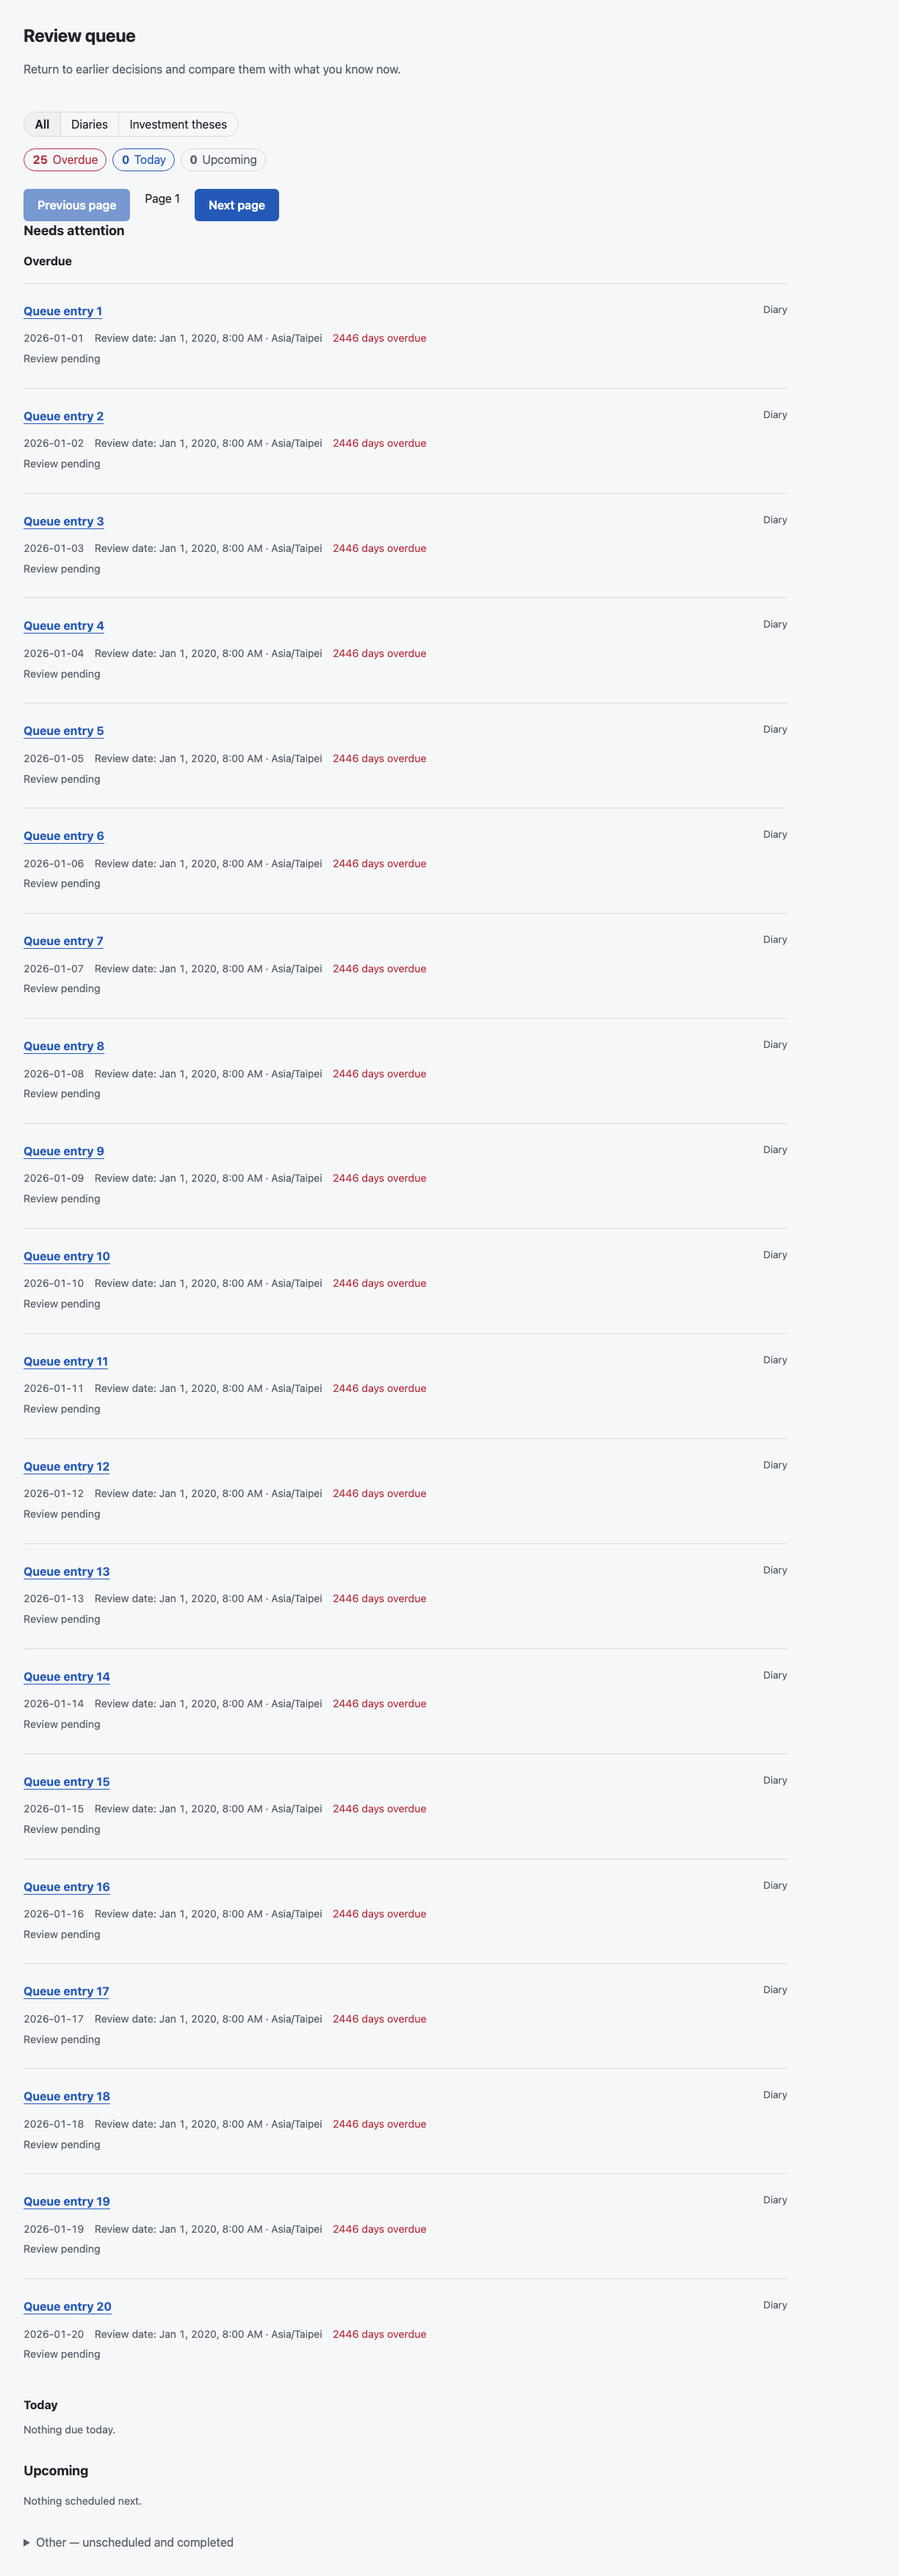
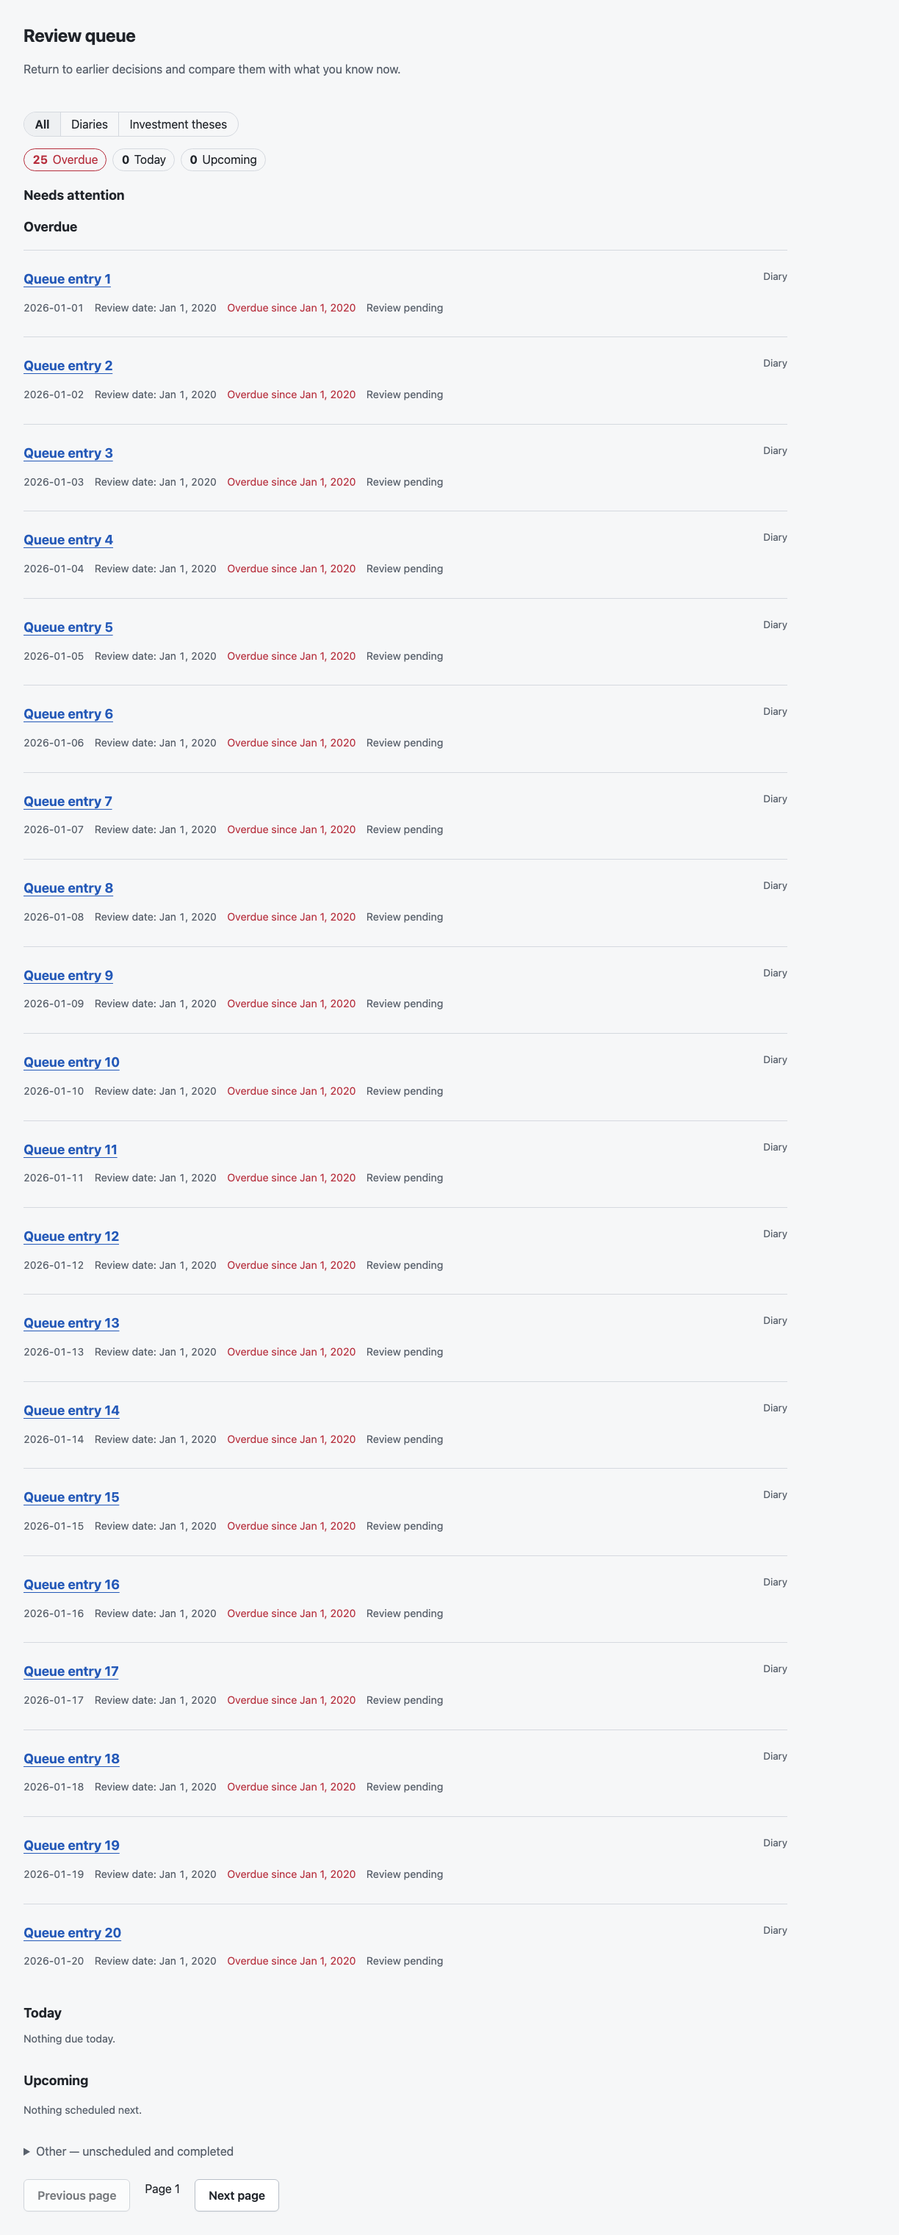
fix(reviews): remediate UI/UX audit findings
- Empty queue renders the welcome block alone; no zero chips, disabled
  paging or empty bucket headings around it
- Overdue priority chip only reads as danger when the count is non-zero
- Pagination moves below the content, secondary styled, with its own
  aria-label instead of the page title
- Bucket headings render at one size so urgency, not heading level,
  sets the tone; past 60 days the due line shows the date instead of a
  meaningless day count
- Review date drops time-of-day and the raw timezone id, and disappears
  once an item is reviewed
- Mobile: scroll-padding-top keeps anchor jumps and focus scrolling
  clear of the sticky top bar
- Thesis rows without a symbol no longer link to /stocks//thesis

diff --git a/apps/web/app/routes/reviews.tsx b/apps/web/app/routes/reviews.tsx
@@ -21,15 +21,18 @@ export function accountDayDiff(instant: string, now: Date, timezone: string): nu
   };
   return (day(new Date(instant)) - day(now)) / 86400000;
 }
-const copy = {
-  en: { title: 'Review queue', hint: 'Return to earlier decisions and compare them with what you know now.', overdue: 'Overdue', today: 'Today', upcoming: 'Upcoming', unscheduled: 'Unscheduled', completed: 'Completed', diary: 'Diary', thesis: 'Investment thesis', diaries: 'Diaries', theses: 'Investment theses', all: 'All', filter: 'Filter by type', empty: 'No items on this page.', emptyOverdue: 'Nothing overdue.', emptyToday: 'Nothing due today.', emptyUpcoming: 'Nothing scheduled next.', emptyAll: 'Nothing waiting for review right now.', library: 'Diary library', previous: 'Previous page', next: 'Next page', page: 'Page', date: 'Review date', more: 'Other — unscheduled and completed', stateNone: 'No review due', statePending: 'Review pending', stateReviewed: 'Reviewed', dueToday: 'Due today', overdueOne: '1 day overdue', overdueDays: '{n} days overdue', dueInOne: 'Due in 1 day', dueInDays: 'Due in {n} days', reviewDiary: 'Review diary', reviewThesis: 'Review thesis' },
-  'zh-TW': { title: '複盤隊列', hint: '回看過往決策，對照目前掌握的資料。', overdue: '逾期', today: '今天', upcoming: '即將到期', unscheduled: '未排程', completed: '已完成', diary: '日記', thesis: '投資論點', diaries: '日記', theses: '投資論點', all: '全部', filter: '依類型篩選', empty: '這頁沒有項目。', emptyOverdue: '沒有逾期項目。', emptyToday: '今天沒有到期複盤。', emptyUpcoming: '接下來沒有排定複盤。', emptyAll: '目前沒有待複盤的項目。', library: '日記庫', previous: '上一頁', next: '下一頁', page: '頁', date: '複盤日期', more: '其他 — 未排程與已完成', stateNone: '未安排複盤', statePending: '待複盤', stateReviewed: '已複盤', dueToday: '今天到期', overdueOne: '逾期 1 天', overdueDays: '逾期 {n} 天', dueInOne: '1 天後到期', dueInDays: '{n} 天後到期', reviewDiary: '複盤日記', reviewThesis: '複盤論點' },
-  'zh-CN': { title: '复盘队列', hint: '回看过往决策，对照目前掌握的资料。', overdue: '逾期', today: '今天', upcoming: '即将到期', unscheduled: '未排程', completed: '已完成', diary: '日记', thesis: '投资论点', diaries: '日记', theses: '投资论点', all: '全部', filter: '按类型筛选', empty: '这页没有项目。', emptyOverdue: '没有逾期项目。', emptyToday: '今天没有到期复盘。', emptyUpcoming: '接下来没有排定复盘。', emptyAll: '目前没有待复盘的项目。', library: '日记库', previous: '上一页', next: '下一页', page: '页', date: '复盘日期', more: '其他 — 未排程与已完成', stateNone: '未安排复盘', statePending: '待复盘', stateReviewed: '已复盘', dueToday: '今天到期', overdueOne: '逾期 1 天', overdueDays: '逾期 {n} 天', dueInOne: '1 天后到期', dueInDays: '{n} 天后到期', reviewDiary: '复盘日记', reviewThesis: '复盘论点' },
+export const copy = {
+  en: { title: 'Review queue', hint: 'Return to earlier decisions and compare them with what you know now.', overdue: 'Overdue', today: 'Today', upcoming: 'Upcoming', unscheduled: 'Unscheduled', completed: 'Completed', diary: 'Diary', thesis: 'Investment thesis', diaries: 'Diaries', theses: 'Investment theses', all: 'All', filter: 'Filter by type', empty: 'No items on this page.', emptyOverdue: 'Nothing overdue.', emptyToday: 'Nothing due today.', emptyUpcoming: 'Nothing scheduled next.', emptyAll: 'Nothing waiting for review right now.', library: 'Diary library', previous: 'Previous page', next: 'Next page', page: 'Page', pagination: 'Pagination', date: 'Review date', more: 'Other — unscheduled and completed', stateNone: 'No review due', statePending: 'Review pending', stateReviewed: 'Reviewed', dueToday: 'Due today', overdueOne: '1 day overdue', overdueDays: '{n} days overdue', dueInOne: 'Due in 1 day', dueInDays: 'Due in {n} days', overdueSince: 'Overdue since {date}', dueOn: 'Due {date}', reviewDiary: 'Review diary', reviewThesis: 'Review thesis' },
+  'zh-TW': { title: '複盤隊列', hint: '回看過往決策，對照目前掌握的資料。', overdue: '逾期', today: '今天', upcoming: '即將到期', unscheduled: '未排程', completed: '已完成', diary: '日記', thesis: '投資論點', diaries: '日記', theses: '投資論點', all: '全部', filter: '依類型篩選', empty: '這頁沒有項目。', emptyOverdue: '沒有逾期項目。', emptyToday: '今天沒有到期複盤。', emptyUpcoming: '接下來沒有排定複盤。', emptyAll: '目前沒有待複盤的項目。', library: '日記庫', previous: '上一頁', next: '下一頁', page: '頁', pagination: '分頁', date: '複盤日期', more: '其他 — 未排程與已完成', stateNone: '未安排複盤', statePending: '待複盤', stateReviewed: '已複盤', dueToday: '今天到期', overdueOne: '逾期 1 天', overdueDays: '逾期 {n} 天', dueInOne: '1 天後到期', dueInDays: '{n} 天後到期', overdueSince: '自 {date} 起逾期', dueOn: '{date} 到期', reviewDiary: '複盤日記', reviewThesis: '複盤論點' },
+  'zh-CN': { title: '复盘队列', hint: '回看过往决策，对照目前掌握的资料。', overdue: '逾期', today: '今天', upcoming: '即将到期', unscheduled: '未排程', completed: '已完成', diary: '日记', thesis: '投资论点', diaries: '日记', theses: '投资论点', all: '全部', filter: '按类型筛选', empty: '这页没有项目。', emptyOverdue: '没有逾期项目。', emptyToday: '今天没有到期复盘。', emptyUpcoming: '接下来没有排定复盘。', emptyAll: '目前没有待复盘的项目。', library: '日记库', previous: '上一页', next: '下一页', page: '页', pagination: '分页', date: '复盘日期', more: '其他 — 未排程与已完成', stateNone: '未安排复盘', statePending: '待复盘', stateReviewed: '已复盘', dueToday: '今天到期', overdueOne: '逾期 1 天', overdueDays: '逾期 {n} 天', dueInOne: '1 天后到期', dueInDays: '{n} 天后到期', overdueSince: '自 {date} 起逾期', dueOn: '{date} 到期', reviewDiary: '复盘日记', reviewThesis: '复盘论点' },
 };
+// Past 60 days a day count is noise; the date itself communicates.
+export const dueLine = (days: number, c: (typeof copy)[keyof typeof copy], date: string) => Math.abs(days) < 60 ? (days === 0 ? c.dueToday : days < 0 ? days === -1 ? c.overdueOne : c.overdueDays.replace('{n}', String(-days)) : days === 1 ? c.dueInOne : c.dueInDays.replace('{n}', String(days))) : (days < 0 ? c.overdueSince : c.dueOn).replace('{date}', date);
 export default function Reviews() {
   const { locale, t } = useUi(), c = copy[locale], [params, setParams] = useSearchParams();
   const [data, setData] = useState<ReviewGroups | null>(null), [error, setError] = useState<Failure | null>(null), [attempt, retry] = useState(0), [timezone, setTimezone] = useState('UTC');
   const labels = thesisCopy[locale];
+  const dateFmt = new Intl.DateTimeFormat(locale, { dateStyle: 'medium', timeZone: timezone });
   const label = (value: string) => Object.hasOwn(labels, value) ? labels[value as keyof typeof labels] : value;
   const translate = useRef(t); translate.current = t;
   const query = params.toString(), parsed = reviewQueueQuerySchema.safeParse({ page: params.get('page') ?? '1', limit: 20, target: params.get('target') ?? undefined }), page = parsed.success ? parsed.data.page : 1;
@@ -52,16 +55,17 @@ export default function Reviews() {
   const turn = (next: number) => { const updated = new URLSearchParams(params); updated.set('page', String(next)); focusResults.current = true; setParams(updated); };
   const filterTo = (target: string) => { const updated = new URLSearchParams(params); if (target) updated.set('target', target); else updated.delete('target'); updated.delete('page'); return `/reviews${updated.toString() ? `?${updated}` : ''}`; };
   const stateLabel = (status: ReviewItem['reviewStatus']) => status === 'reviewed' ? c.stateReviewed : status === 'pending' ? c.statePending : c.stateNone;
-  const dueText = (days: number) => days === 0 ? c.dueToday : days < 0 ? days === -1 ? c.overdueOne : c.overdueDays.replace('{n}', String(-days)) : days === 1 ? c.dueInOne : c.dueInDays.replace('{n}', String(days));
   const dueClass = (days: number) => days < 0 ? 'queue-due-overdue' : days === 0 ? 'queue-due-today' : 'queue-due-upcoming';
   const renderItem = (item: ReviewItem) => {
     const due = item.reviewDueAt && item.reviewStatus !== 'reviewed' ? accountDayDiff(item.reviewDueAt, new Date(), timezone) : null;
+    const href = item.targetType === 'diary' ? `/diaries/${item.id}/review` : item.symbol && `/stocks/${encodeURIComponent(item.symbol)}/thesis`;
+    const title = <><span className="queue-sr">{item.targetType === 'diary' ? `${c.reviewDiary}: ` : `${c.reviewThesis}: `}</span>{item.targetType === 'thesis' ? item.symbol ? `${item.symbol} · ${c.thesis}` : c.thesis : item.title}</>;
     return <li key={item.id} data-testid="review-queue-item" className="queue-item">
-      <header className="plan-header"><h3><Link to={item.targetType === 'diary' ? `/diaries/${item.id}/review` : `/stocks/${encodeURIComponent(item.symbol ?? '')}/thesis`} state={{ queueSearch: query }}><span className="queue-sr">{item.targetType === 'diary' ? `${c.reviewDiary}: ` : `${c.reviewThesis}: `}</span>{item.targetType === 'thesis' ? `${item.symbol} · ${c.thesis}` : item.title}</Link></h3><span className="queue-badge">{c[item.targetType]}</span></header>
+      <header className="plan-header"><h3>{href ? <Link to={href} state={{ queueSearch: query }}>{title}</Link> : title}</h3><span className="queue-badge">{c[item.targetType]}</span></header>
       <p className="queue-meta">
         {item.targetType === 'diary' && <time dateTime={item.date}>{item.date}</time>}
-        {item.reviewDueAt && <span>{c.date}: <time dateTime={item.reviewDueAt}>{new Intl.DateTimeFormat(locale, { dateStyle: 'medium', timeStyle: 'short', timeZone: timezone }).format(new Date(item.reviewDueAt))} · {timezone}</time></span>}
-        {due !== null && <span className={`queue-due ${dueClass(due)}`}>{dueText(due)}</span>}
+        {item.reviewDueAt && item.reviewStatus !== 'reviewed' && <span>{c.date}: <time dateTime={item.reviewDueAt}>{dateFmt.format(new Date(item.reviewDueAt))}</time></span>}
+        {item.reviewDueAt && due !== null && <span className={`queue-due ${dueClass(due)}`}>{dueLine(due, c, dateFmt.format(new Date(item.reviewDueAt)))}</span>}
         <span>{item.reviewOutcome ? `${labels.outcome}: ${label(item.reviewOutcome)}` : stateLabel(item.reviewStatus)}</span>
         {item.targetType === 'thesis' && item.portfolioDecision && <span>{labels.portfolioDecision}: {label(item.portfolioDecision)}</span>}
       </p>
@@ -78,6 +82,7 @@ export default function Reviews() {
   };
   // Secondary buckets stay collapsed unless there is nothing urgent to review.
   const showSecondary = data !== null && priorityBuckets.every(bucket => data.counts[bucket] === 0) && data.unscheduled.length > 0;
+  // An empty queue gets the welcome block alone; buckets, counts and paging are all noise there.
   const emptyQueue = data !== null && page === 1 && buckets.every(bucket => data.counts[bucket] === 0);
-  return <section className="plan-page"><h1>{c.title}</h1><p className="lede">{c.hint}</p>{error ? <><FailureNotice failure={error}/>{error.code?.startsWith('AUTH_') && <Link to={signInPath('/reviews')}>{t('login')}</Link>}<button onClick={() => retry(value => value + 1)}>{t('retry')}</button></> : !data ? <p role="status">{t('loading')}</p> : <><nav className="queue-filter" aria-label={c.filter}>{([['', c.all], ['diary', c.diaries], ['thesis', c.theses]] as const).map(([value, name]) => <Link key={value} to={filterTo(value)} aria-current={(params.get('target') ?? '') === value ? 'true' : undefined} onClick={() => { if ((params.get('target') ?? '') !== value) focusResults.current = true; }}>{name}</Link>)}</nav><div className="queue-priorities">{priorityBuckets.map(bucket => <a key={bucket} className={`queue-priority queue-priority-${bucket}`} href={`#queue-${bucket}`} data-testid={`queue-count-${bucket}`}><strong>{data.counts[bucket]}</strong> {c[bucket]}</a>)}</div>{emptyQueue && <div className="queue-empty" data-testid="queue-empty"><p>{c.emptyAll}</p><div className="actions"><Link className="button" to="/diaries/new">{t('write')}</Link><Link className="button secondary" to="/diaries">{c.library}</Link></div></div>}<nav className="plan-pagination" aria-label={c.title}><button disabled={page <= 1} onClick={() => turn(page - 1)}>{c.previous}</button><span>{c.page} {page}</span><button disabled={!buckets.some(bucket => data.counts[bucket] > page * 20)} onClick={() => turn(page + 1)}>{c.next}</button></nav><section className="queue-attention"><h2 ref={resultsHeading} tabIndex={-1}>{t('attention')}</h2>{group('overdue', 'h3')}{group('today', 'h3')}</section>{group('upcoming', 'h2')}<details className="queue-secondary" data-testid="queue-secondary" open={showSecondary || undefined}><summary>{c.more}</summary>{secondaryBuckets.map(bucket => group(bucket, 'h2'))}</details></>}</section>;
+  return <section className="plan-page"><h1>{c.title}</h1><p className="lede">{c.hint}</p>{error ? <><FailureNotice failure={error}/>{error.code?.startsWith('AUTH_') && <Link to={signInPath('/reviews')}>{t('login')}</Link>}<button onClick={() => retry(value => value + 1)}>{t('retry')}</button></> : !data ? <p role="status">{t('loading')}</p> : <><nav className="queue-filter" aria-label={c.filter}>{([['', c.all], ['diary', c.diaries], ['thesis', c.theses]] as const).map(([value, name]) => <Link key={value} to={filterTo(value)} aria-current={(params.get('target') ?? '') === value ? 'true' : undefined} onClick={() => { if ((params.get('target') ?? '') !== value) focusResults.current = true; }}>{name}</Link>)}</nav>{emptyQueue ? <div className="queue-empty" data-testid="queue-empty"><p>{c.emptyAll}</p><div className="actions"><Link className="button" to="/diaries/new">{t('write')}</Link><Link className="button secondary" to="/diaries">{c.library}</Link></div></div> : <><div className="queue-priorities">{priorityBuckets.map(bucket => <a key={bucket} className={`queue-priority${data.counts[bucket] > 0 ? ` queue-priority-${bucket}` : ''}`} href={`#queue-${bucket}`} data-testid={`queue-count-${bucket}`}><strong>{data.counts[bucket]}</strong> {c[bucket]}</a>)}</div><section className="queue-attention"><h2 ref={resultsHeading} tabIndex={-1}>{t('attention')}</h2>{group('overdue', 'h3')}{group('today', 'h3')}</section>{group('upcoming', 'h2')}<details className="queue-secondary" data-testid="queue-secondary" open={showSecondary || undefined}><summary>{c.more}</summary>{secondaryBuckets.map(bucket => group(bucket, 'h2'))}</details><nav className="plan-pagination" aria-label={c.pagination}><button className="secondary" disabled={page <= 1} onClick={() => turn(page - 1)}>{c.previous}</button><span>{c.page} {page}</span><button className="secondary" disabled={!buckets.some(bucket => data.counts[bucket] > page * 20)} onClick={() => turn(page + 1)}>{c.next}</button></nav></>}</>}</section>;
 }

diff --git a/tests/unit/review-queue-days.test.ts b/tests/unit/review-queue-days.test.ts
@@ -1,5 +1,5 @@
 import { describe, expect, it } from 'vitest';
-import { accountDayDiff } from '../../apps/web/app/routes/reviews';
+import { accountDayDiff, copy, dueLine } from '../../apps/web/app/routes/reviews';
 
 describe('account-local day difference for queue items', () => {
   const now = new Date('2026-05-01T12:00:00Z'); // 20:00 in Asia/Taipei on 2026-05-01
@@ -13,5 +13,19 @@ describe('account-local day difference for queue items', () => {
     expect(accountDayDiff('2026-04-30T23:59:59Z', now, 'UTC')).toBe(-1);
     // Yesterday in Taipei reads as one day overdue.
     expect(accountDayDiff('2026-04-30T15:59:00Z', now, 'Asia/Taipei')).toBe(-1);
+  });
+});
+
+describe('due line wording', () => {
+  it('counts days while the due date is near', () => {
+    expect(dueLine(0, copy.en, '')).toBe('Due today');
+    expect(dueLine(-3, copy.en, '')).toBe('3 days overdue');
+    expect(dueLine(7, copy.en, '')).toBe('Due in 7 days');
+  });
+
+  it('switches to the date itself once the count is noise', () => {
+    expect(dueLine(-2446, copy.en, 'Jan 1, 2020')).toBe('Overdue since Jan 1, 2020');
+    expect(dueLine(90, copy.en, 'Jun 1, 2026')).toBe('Due Jun 1, 2026');
+    expect(dueLine(-2446, copy['zh-TW'], '2020年1月1日')).toBe('自 2020年1月1日 起逾期');
   });
 });

diff --git a/tests/e2e/review-queue.spec.ts b/tests/e2e/review-queue.spec.ts
@@ -104,7 +104,8 @@ test('Review queue welcomes a fresh account with an entry point', async ({ page 
   await expect(emptyBlock).toContainText('Nothing waiting for review right now.');
   await expect(emptyBlock.getByRole('link', { name: 'Write a diary', exact: true })).toHaveAttribute('href', '/diaries/new');
   await expect(emptyBlock.getByRole('link', { name: 'Diary library', exact: true })).toHaveAttribute('href', '/diaries');
-  await expect(page.getByRole('region', { name: 'Today', exact: true })).toContainText('Nothing due today.');
+  // A fully empty queue renders the welcome block alone; no bucket sections.
+  await expect(page.getByRole('region', { name: 'Today', exact: true })).toHaveCount(0);
   await page.setViewportSize({ width: 1440, height: 900 }); await page.evaluate(() => { if (document.activeElement instanceof HTMLElement) document.activeElement.blur(); });
   await page.locator('main').screenshot({ path: 'docs/design/evidence/review-queue/1440-empty.png' }); expect(await page.evaluate(() => document.documentElement.scrollWidth <= innerWidth)).toBe(true);
 });

diff --git a/apps/web/app/review-queue.css b/apps/web/app/review-queue.css
@@ -3,6 +3,10 @@
 }
 
 /* Urgent buckets share one 'Needs attention' heading; the buckets sit under it. */
+.queue-attention {
+  margin-top: var(--space-5);
+}
+
 .queue-attention .queue-group {
   margin-top: var(--space-4);
 }
@@ -73,6 +77,9 @@
 
 .queue-group h3 {
   overflow-wrap: anywhere;
+  /* Bucket headings are parallel items: give the h3 ones under 'Needs attention'
+     the same size as their h2 siblings so urgency, not level, sets the tone. */
+  font-size: 1.125rem;
 }
 
 /* Priority strip: one compact row answering what to review now. */

diff --git a/apps/web/app/styles.css b/apps/web/app/styles.css
@@ -1376,6 +1376,12 @@ main:focus-visible {
     display: block;
   }
 
+  /* The sidebar is a sticky top bar here; keep anchor jumps and focus
+     scrolling from leaving targets hidden underneath it. */
+  html {
+    scroll-padding-top: calc(64px + env(safe-area-inset-top));
+  }
+
   .sidebar {
     position: sticky;
     top: 0;
